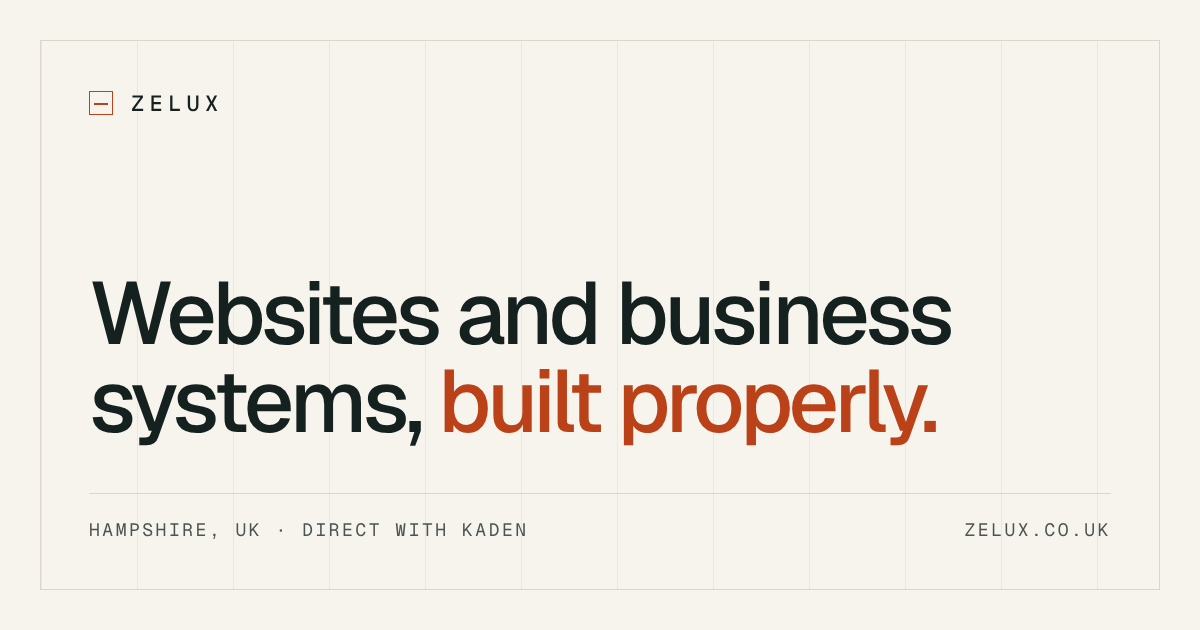
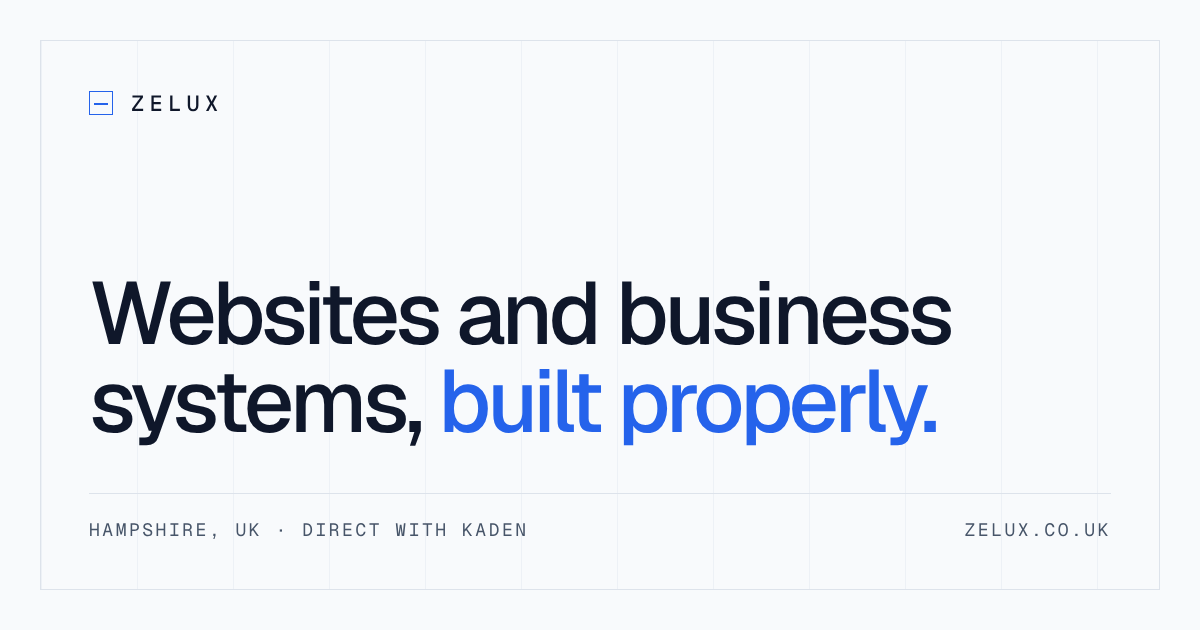
Palette: navy, cool off-white, electric blue accent
- 60% off-white #F8FAFC; 30% navy #0F172A (text and dark bands);
  10% electric blue #2563EB (#6EA0FF on navy) for actions and emphasis
- All text pairs meet WCAG AA; form borders 3:1
- Lead flow, work illustration, Cal.com embed, favicon and share image
  updated to match

Claude-Session: https://claude.ai/code/session_01AWB2yY8NfgECLFiuvDnmSu

Changed region(s): [[0.37, 0.573, 0.8017, 0.7238]]

diff --git a/src/styles/global.css b/src/styles/global.css
@@ -3,30 +3,30 @@
 @import "tailwindcss";
 
 @theme {
-  /* 60%: warm paper base */
-  --color-canvas: #f7f4ee;
-  --color-surface: #efeae1;
-  --color-surface-hover: #e8e2d6;
-  --color-hairline: #dcd5c8;
-  --color-hairline-strong: #8f877a;
-  --color-hairline-accent: #e3b8a6;
-  --color-ink: #14211f;
-  --color-ink-2: #4a5552;
-  --color-ink-3: #5f6965;
+  /* 60%: cool off-white base */
+  --color-canvas: #f8fafc;
+  --color-surface: #eef2f7;
+  --color-surface-hover: #e5eaf2;
+  --color-hairline: #dde3eb;
+  --color-hairline-strong: #8792a3;
+  --color-hairline-accent: #b9cbf5;
+  --color-ink: #0f172a;
+  --color-ink-2: #475569;
+  --color-ink-3: #5b677a;
 
   /* 10%: one accent, used for action and emphasis only */
-  --color-accent: #bb4118;
-  --color-accent-hover: #9f3713;
-  --color-accent-tint: #f6e3da;
-  --color-live: #2f8f5b;
+  --color-accent: #2563eb;
+  --color-accent-hover: #1d4ed8;
+  --color-accent-tint: #e3ebfd;
+  --color-live: #15803d;
 
-  /* 30%: deep green-ink, for text and the dark bands */
-  --color-deep: #14211f;
-  --color-deep-2: #1b2b28;
-  --color-deep-line: #2c3d39;
-  --color-deep-ink: #f2eee6;
-  --color-deep-ink-2: #aab6b1;
-  --color-accent-on-deep: #ff7a45;
+  /* 30%: deep navy, for text and the dark bands */
+  --color-deep: #0f172a;
+  --color-deep-2: #16213a;
+  --color-deep-line: #263352;
+  --color-deep-ink: #f1f5f9;
+  --color-deep-ink-2: #a5b1c4;
+  --color-accent-on-deep: #6ea0ff;
 
   --font-serif: "Geist Variable", ui-sans-serif, system-ui, sans-serif;
   --font-sans: "Geist Variable", ui-sans-serif, system-ui, sans-serif;
@@ -162,7 +162,7 @@
   .band-deep ::selection { background: var(--color-accent-on-deep); color: var(--color-deep); }
   .band-deep :focus-visible { outline-color: var(--color-accent-on-deep); }
   .band-deep .btn-primary { background: var(--color-accent-on-deep); color: var(--color-deep); }
-  .band-deep .btn-primary:hover { background: #ff9466; }
+  .band-deep .btn-primary:hover { background: #8fb6ff; }
 
   /* Service rows */
   .svc-title {
@@ -235,5 +235,5 @@ html:not(.js) #menu-btn { display: none; }
 h1 em, h2 em, h3 em { font-style: normal; }
 
 /* Hero: faint hairline grid that fades out toward the bottom */
-.hero-grid { background-image: linear-gradient(var(--color-canvas), transparent 30%, transparent 70%, var(--color-canvas)), linear-gradient(90deg, #ece7de 1px, transparent 1px); background-size: 100% 100%, calc((min(100vw, 1160px) - 2.5rem) / 12) 100%; background-position: 0 0, center top; }
+.hero-grid { background-image: linear-gradient(var(--color-canvas), transparent 30%, transparent 70%, var(--color-canvas)), linear-gradient(90deg, #edf1f6 1px, transparent 1px); background-size: 100% 100%, calc((min(100vw, 1160px) - 2.5rem) / 12) 100%; background-position: 0 0, center top; }
 
